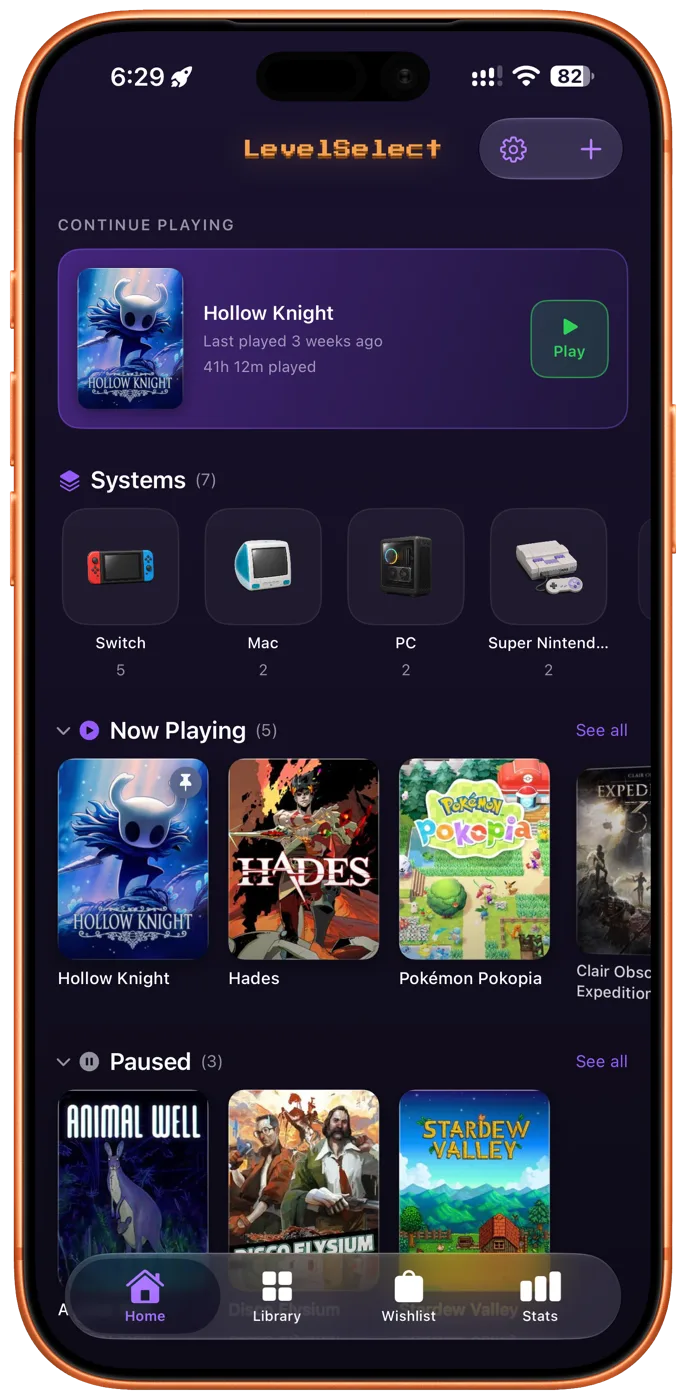
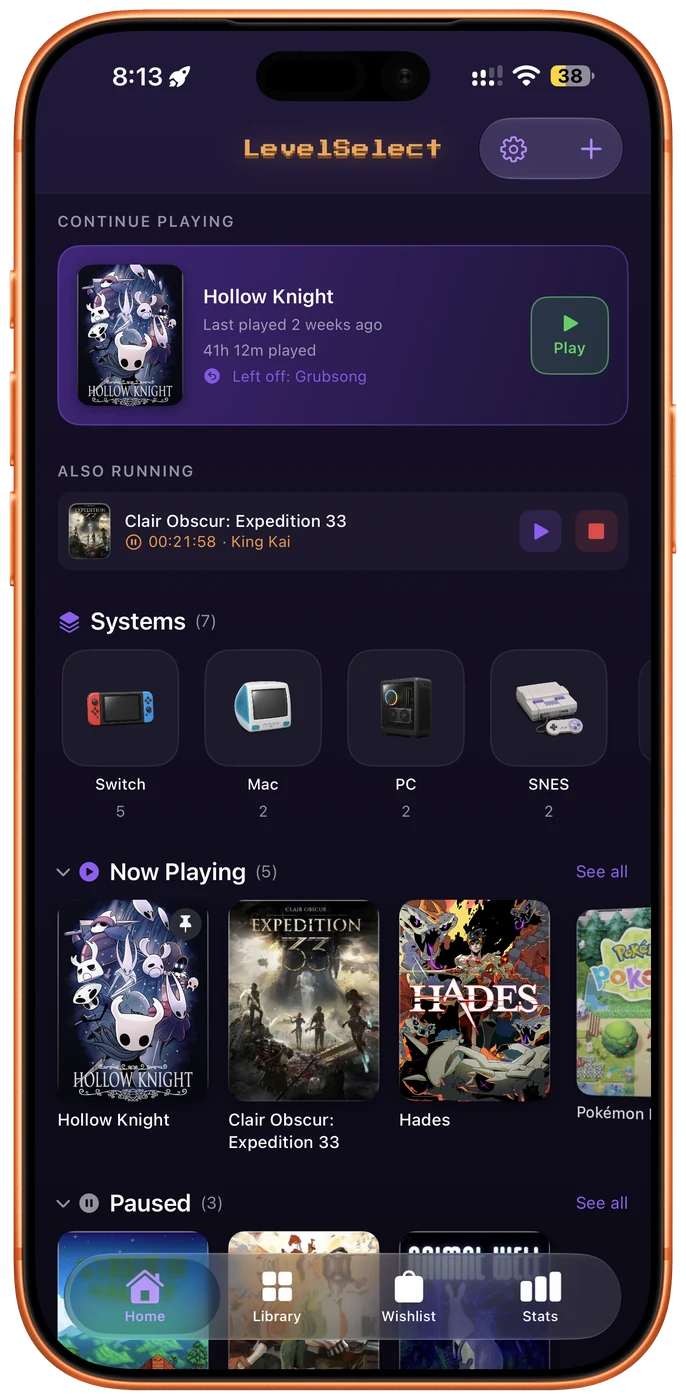
Put the app's front door back, and give the header its own section
Tim noticed the site had no picture of the Home screen. That was my doing:
the hero used to carry it, and I swapped it for a game page because the
rebuilt header was the build's headline and nothing showed it.

Both wanted a place. The hero takes Home again — the front door belongs in
the first thing you see, and the iPad half beside it is a game page anyway,
so the header was never actually absent from the hero. The header then gets
a section of its own, which it should have had rather than a cameo:
"A page that looks like the game", Hollow Knight and Hades, two games
precisely because the point is that none of it is LevelSelect's art.

The new Home shot is better than the one it replaces. It shows ALSO RUNNING
— a timer going on the other device, named — which is the two-devices-can't-
double-count promise the pitch has always made and no screenshot has ever
demonstrated.

Also corrects a comment I wrote an hour ago. The social generator claimed to
track the hero; it does not, and should not. Those images are picked for
legibility at thumbnail size, where a dense grid of covers turns to mush and
one big logo survives. The rule is written down now instead of the
coincidence that used to make it look true.

Held, unused: the iPad Home shot, which shows the same ALSO RUNNING row from
Piccolo's side.

diff --git a/site/scripts/make-social-images.py b/site/scripts/make-social-images.py
@@ -28,7 +28,12 @@ TORCH_DEEP  = (138, 74, 18)
 INK         = (239, 234, 251)
 MUTED       = (153, 144, 184)
 
-# Keep these in step with the hero in src/pages/index.astro.
+# NOT necessarily the hero's shot — these are chosen for legibility at
+# thumbnail size, which is the only job a link preview has. The Home shelf is a
+# dense grid of small covers: fine on the site, mush in a Reddit unfurl. A game
+# page carries one big logo that survives being shrunk. The hero went back to
+# Home when the site turned out to have no picture of the app's front door
+# anywhere; this stayed put on purpose.
 PHONE_SHOT = "iphone-02-game-page-hollow.webp"
 IPAD_SHOT  = "ipad-01-split-tracker.webp"
 
@@ -71,10 +76,9 @@ def devices(pair, height):
     keep text clear of the art — the square's URL used to land on top of the
     phone because nothing was measuring this.
     """
-    # Tracks the homepage hero deliberately — the point of this pairing is
-    # that a link preview looks like the page it links to. The phone was the
-    # Home shelf until build 32 rebuilt the game page around its own art;
-    # the header is what the app looks like now, so it leads here too.
+    # The pairing mirrors the hero's arrangement — phone in front of iPad —
+    # so a preview reads as the same product. The individual shots are picked
+    # for thumbnail legibility instead; see PHONE_SHOT.
     phone = shot(PHONE_SHOT, height)
     if not pair:
         return phone
